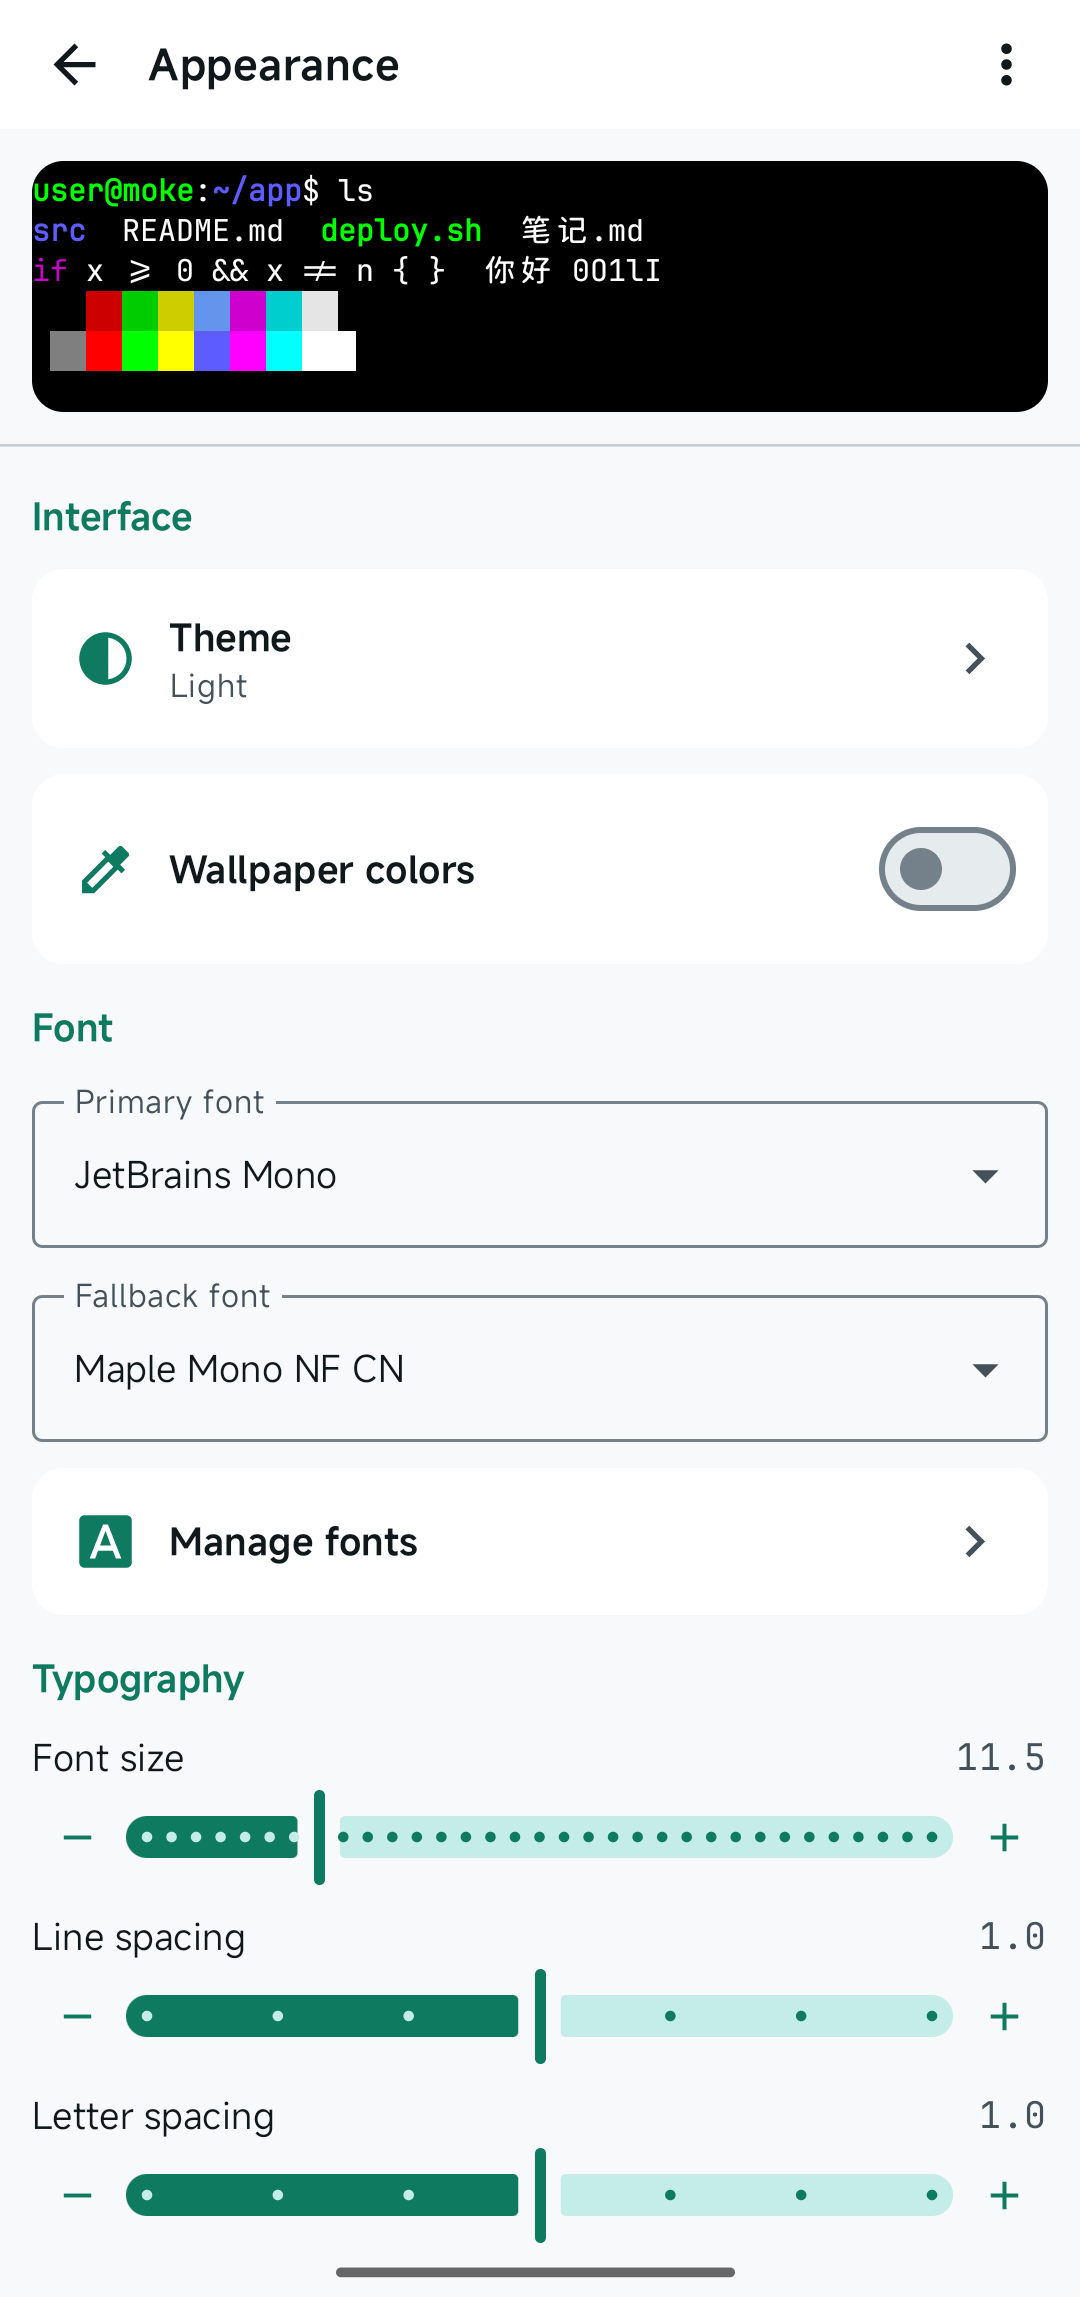
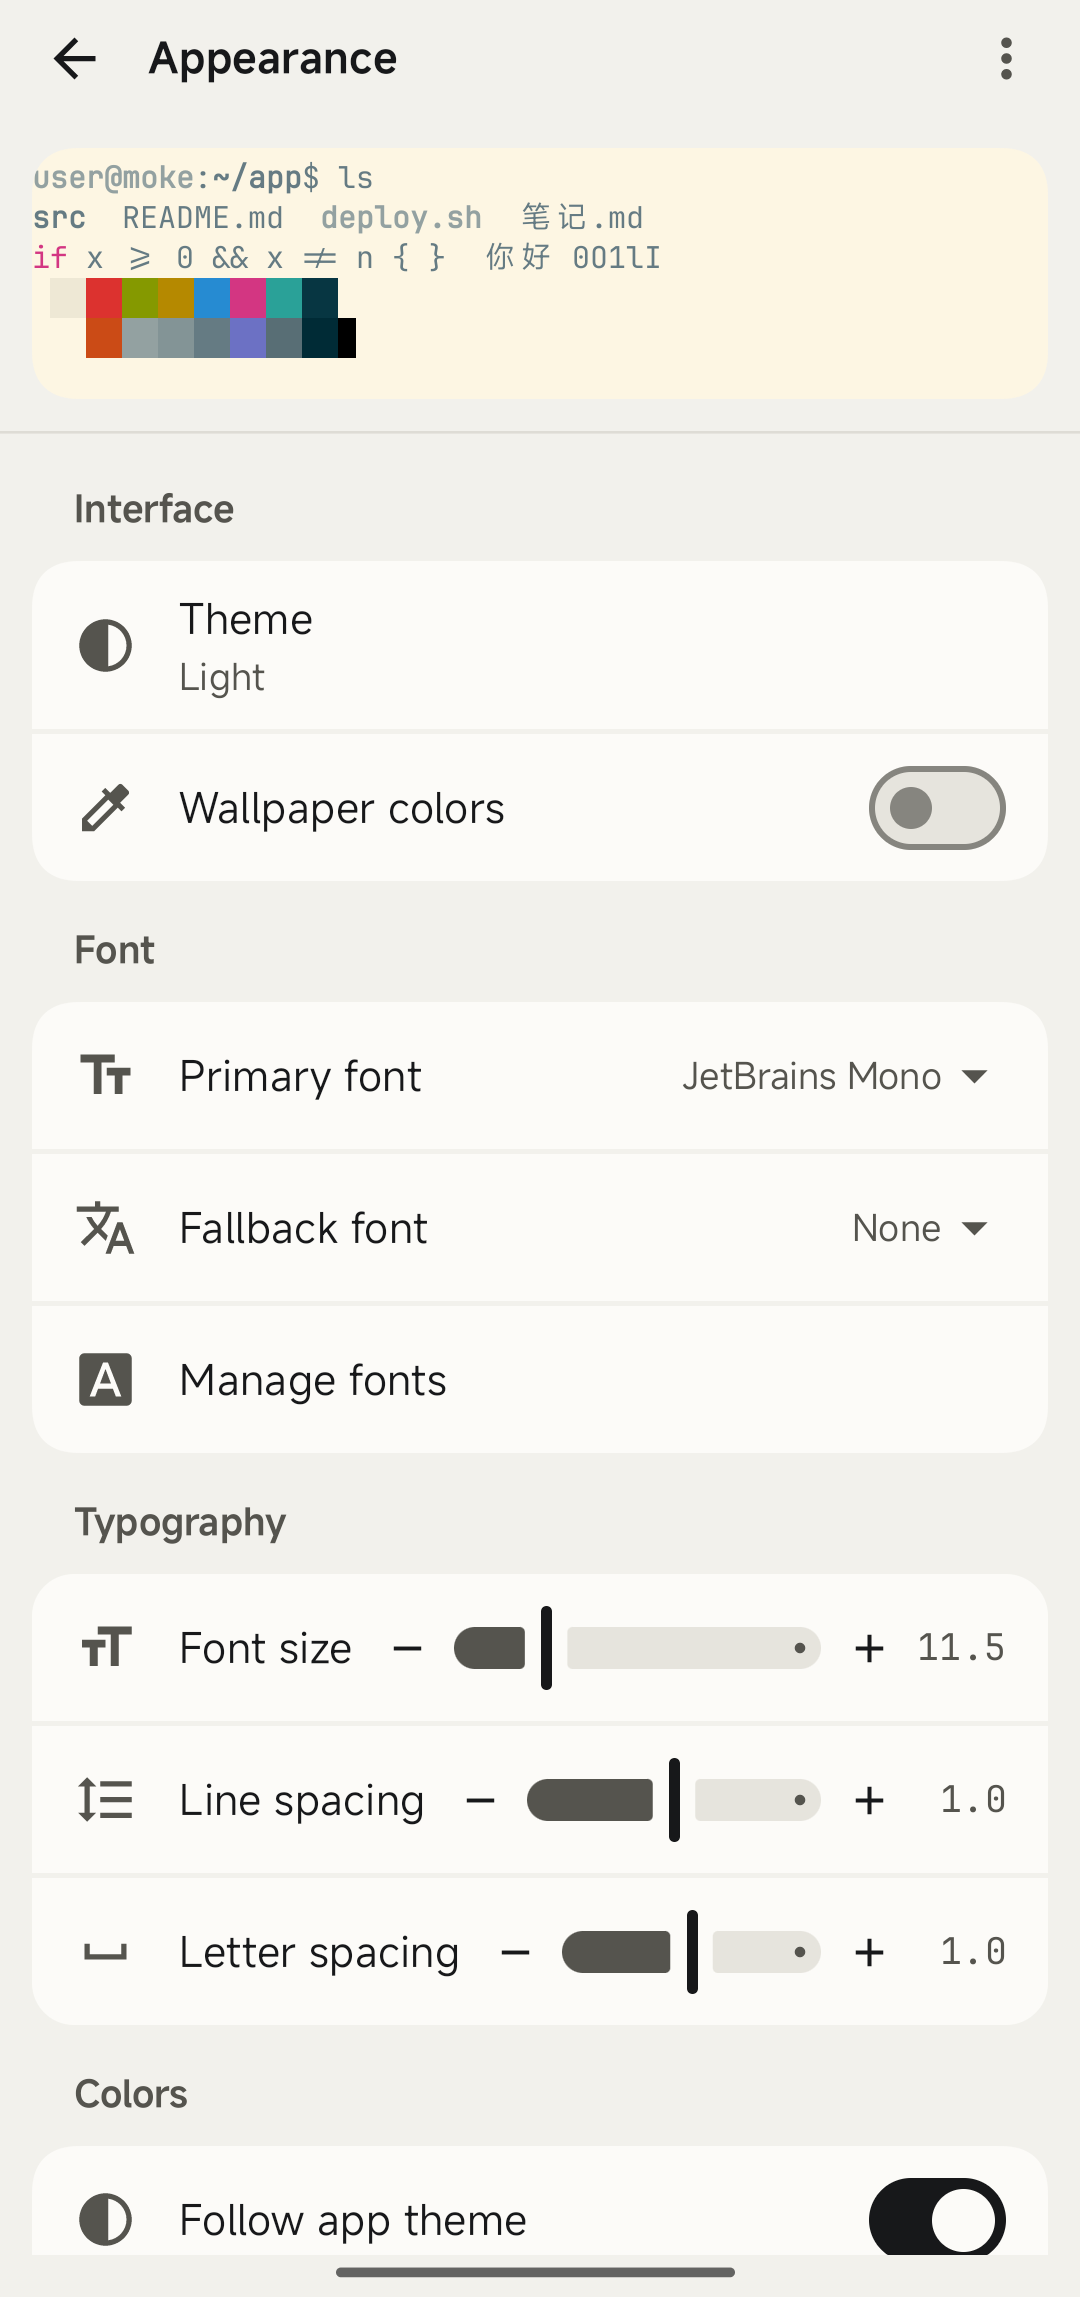
release: v0.2.2

diff --git a/CHANGELOG.md b/CHANGELOG.md
@@ -2,6 +2,24 @@
 
 本项目遵循 [语义化版本](https://semver.org/lang/zh-CN/)。
 
+## [0.2.2]
+
+### 新增与优化
+- **全新界面**：水墨黑白灰配色和新图标；主机、会话、设置统一为分段列表；导航栏更矮，横屏改用侧边栏。
+- **列表操作**：长按拖动排序，长按后松手打开菜单。
+- **触摸滚动**：与常见终端一致，手指每滑过一行发送一次滚轮；less、man 等全屏程序可以滑动翻页；mosh 会话可以往回滑，查看连接后的输出。
+- 开启「tmux 滚屏」时，会为当前会话打开鼠标并调整滚轮绑定，自定义的绑定保持不变；每次滚动的行数沿用 tmux 自己的设置。
+- 终端配色默认随浅色 / 深色主题切换。
+- 移除延迟显示。
+
+### 修复
+- 修复切换系统浅色 / 深色后，状态栏图标可能看不清的问题。
+- 修复删除主机确认框中的换行显示。
+
+### 安装要求
+- Android 11+、arm64-v8a。
+- 使用 mosh 或 tmux 时，远端需安装相应程序。
+
 ## [0.2.1]
 
 ### 新增与优化
